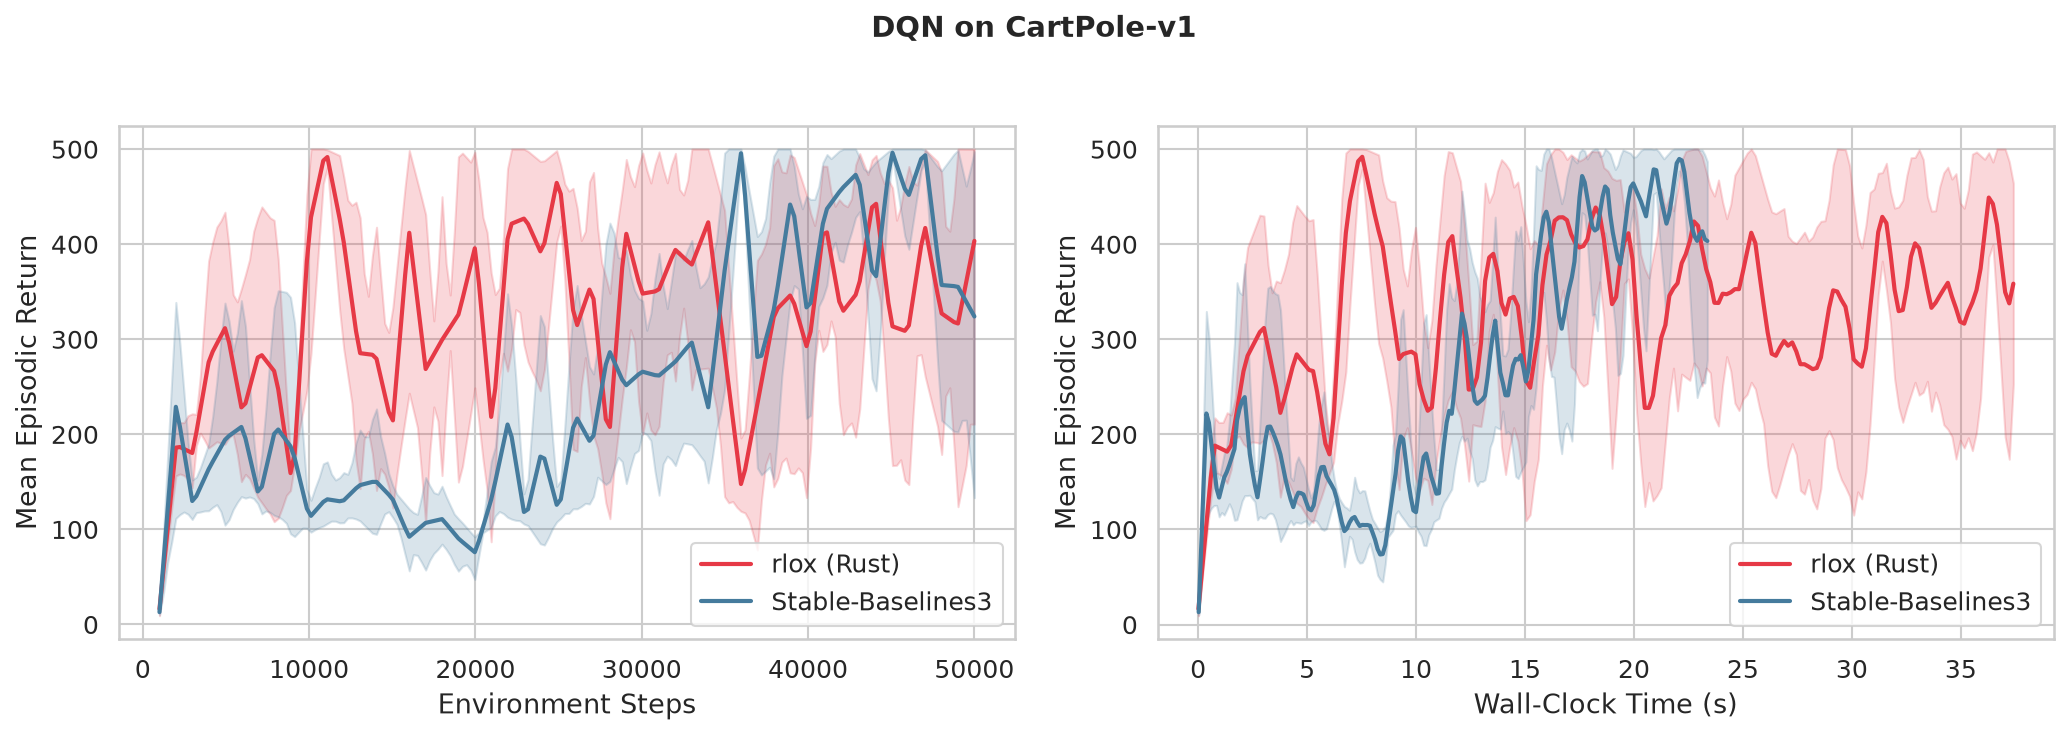
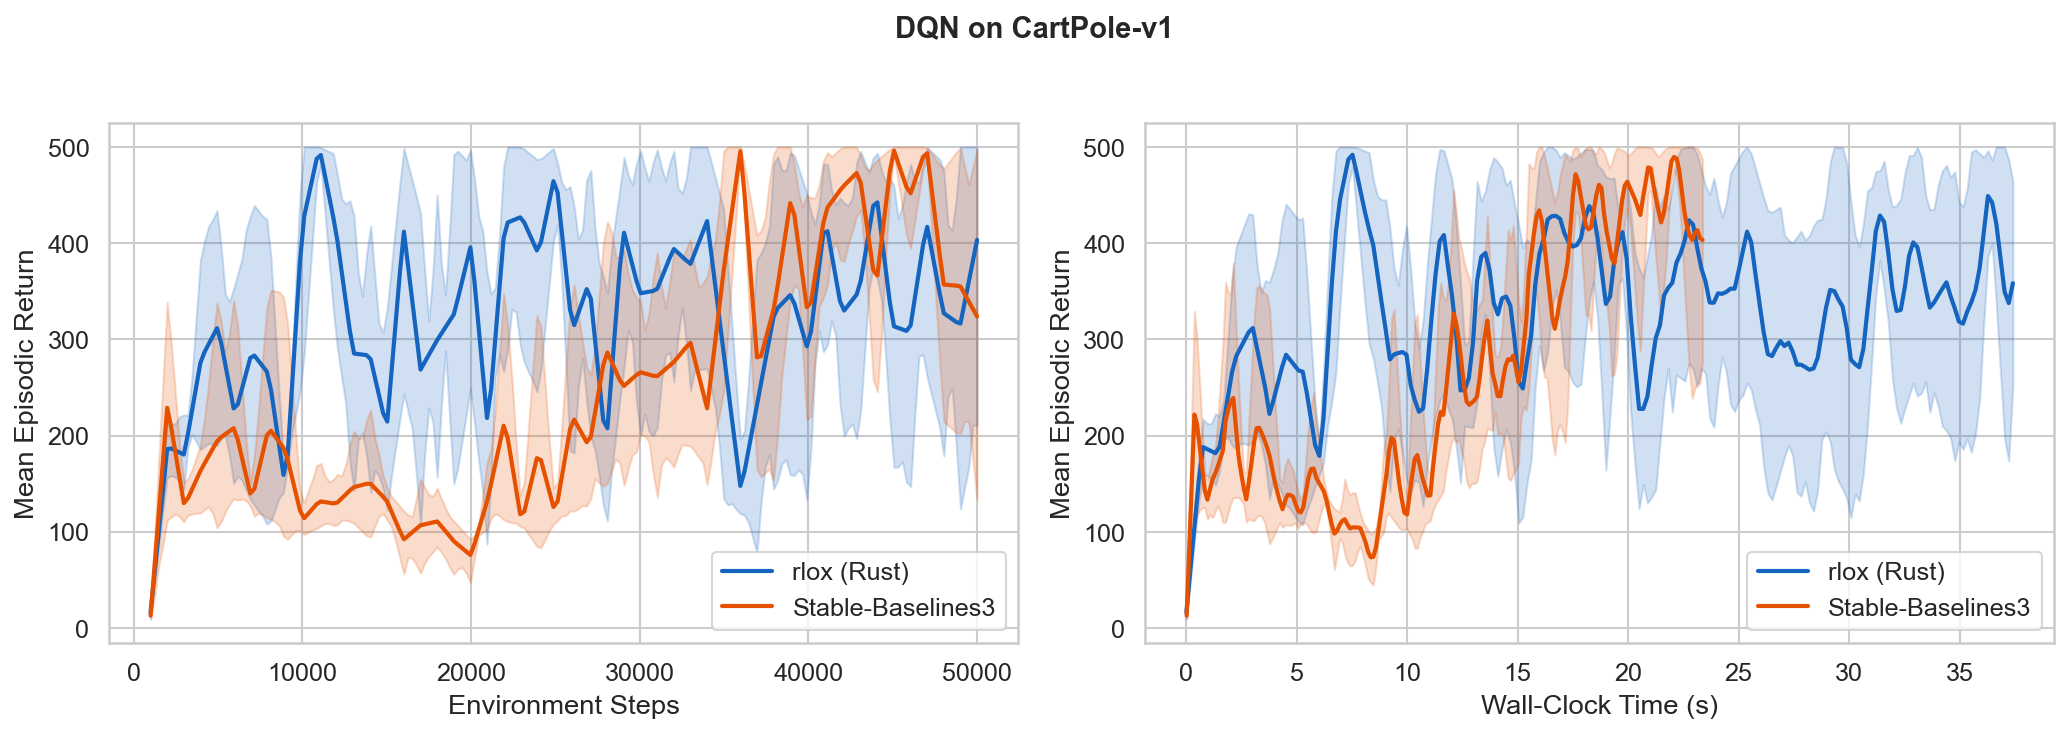
Align figure colors to paper (blue/orange) + fix CITATION license
- plot_learning_curves.py: rlox=blue (#1565c0), sb3=orange (#e65100) to
  match the paper's figures (were red/blue), and regenerate the flagged
  learning-curve PNGs so paper and committed figures are consistent.
- CITATION.cff: license MIT -> dual MIT/Apache-2.0, matching LICENSE-MIT
  + LICENSE-APACHE and the README badge.

diff --git a/benchmarks/convergence/plot_learning_curves.py b/benchmarks/convergence/plot_learning_curves.py
@@ -25,7 +25,7 @@ sns.set_theme(style="whitegrid", font_scale=1.1)
 DEFAULT_N_BOOTSTRAP: int = 2_000
 DEFAULT_BOOTSTRAP_SEED: int = 42
 
-FRAMEWORK_COLORS = {"rlox": "#E63946", "sb3": "#457B9D"}
+FRAMEWORK_COLORS = {"rlox": "#1565c0", "sb3": "#e65100"}  # match paper (blue/orange)
 FRAMEWORK_LABELS = {"rlox": "rlox (Rust)", "sb3": "Stable-Baselines3"}
 
 
